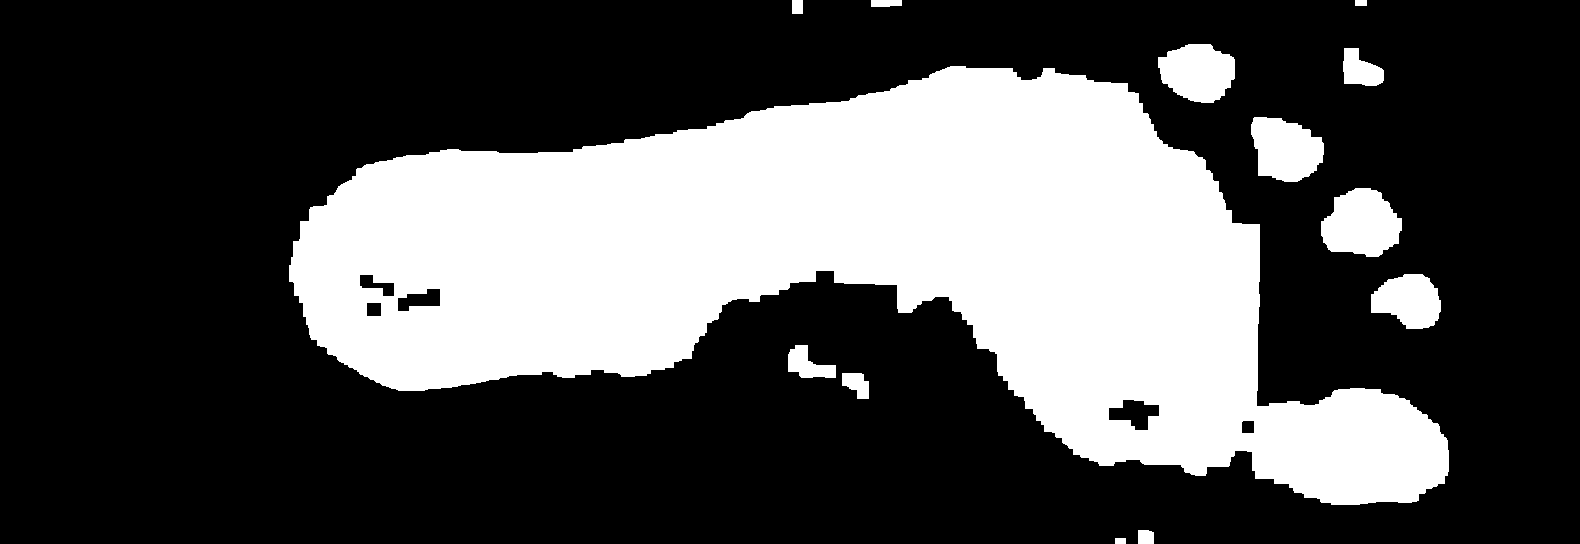
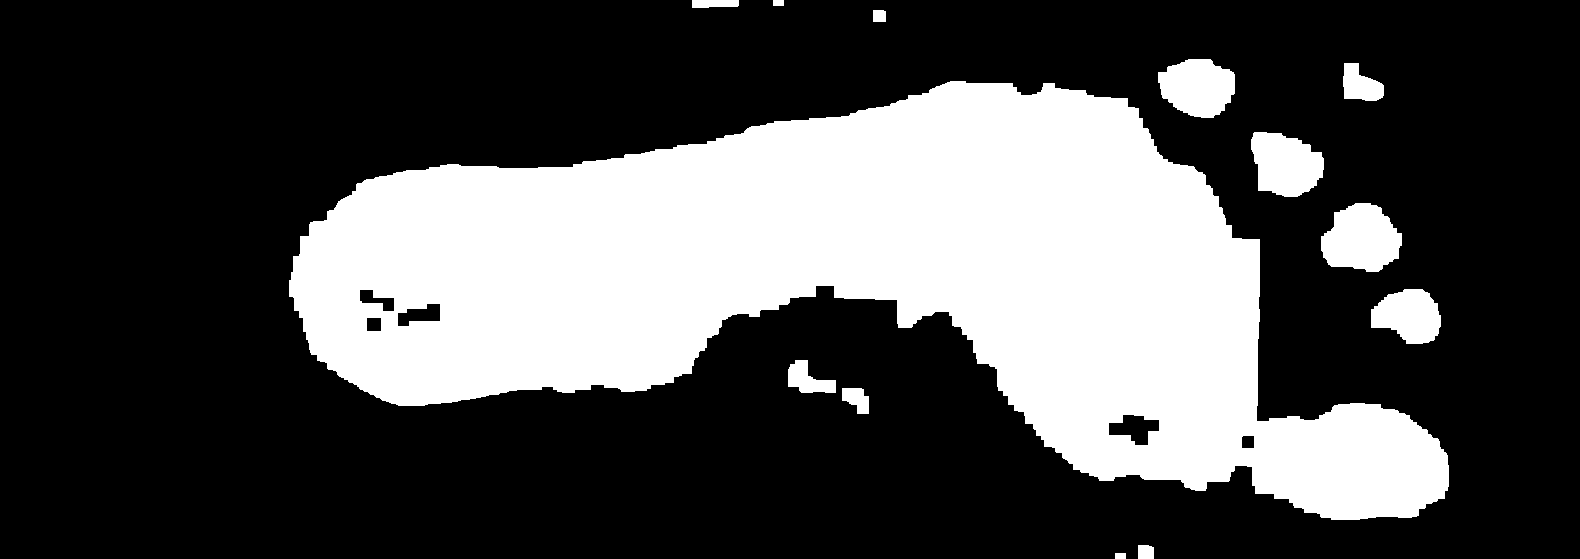
ajuste na altura de corte

diff --git a/main.py b/main.py
@@ -30,7 +30,7 @@ def preprocessar_imagem(imagem):
 
     # Assumindo que a régua ocupa os primeiros pixels da imagem
     # Cortamos o topo da imagem para deixar apenas o pé o máximo possível
-    altura_corte = 225
+    altura_corte = 210
 
     # Cortar a parte superior da imagem para remover a régua
     imagem_cortada = imagem[altura_corte:, :]
